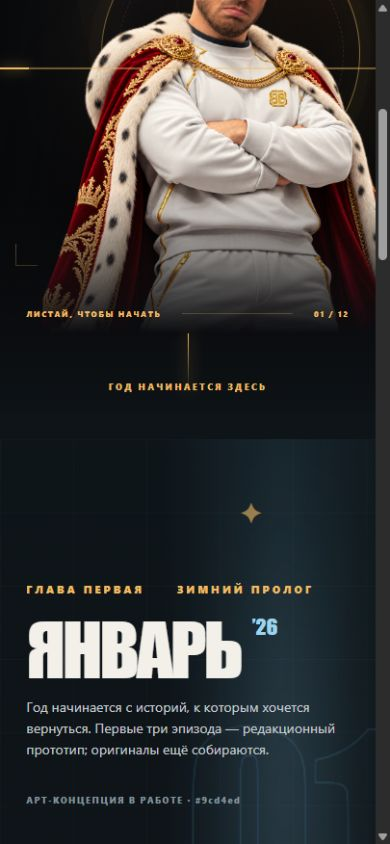
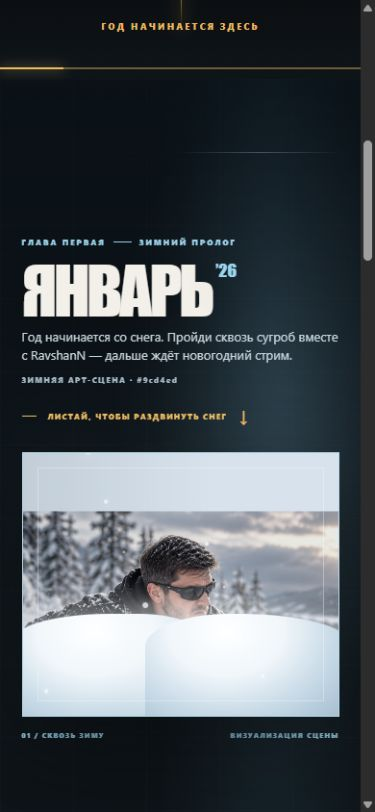
Animate January snow breakout and winter stream scene

diff --git a/src/chapters/january/chapter.module.css b/src/chapters/january/chapter.module.css
@@ -1,21 +1,20 @@
 .chapter { position: relative; isolation: isolate; background: radial-gradient(ellipse at 75% 6%,rgba(72,121,145,.19),transparent 30%), linear-gradient(180deg,#0e1519 0%,#0d1116 38%,#0b0c0f 100%); }
 .chapter::before { content: ''; position: absolute; z-index: -1; inset: 0; opacity: .18; background-image: linear-gradient(rgba(156,212,237,.15) 1px,transparent 1px),linear-gradient(90deg,rgba(156,212,237,.15) 1px,transparent 1px); background-size: 76px 76px; mask-image: linear-gradient(black,transparent 70%); }
 .winterLight { position: absolute; top: 0; right: 3%; width: 42%; height: 750px; border-radius: 50%; background: radial-gradient(ellipse,rgba(156,212,237,.15),transparent 70%); filter: blur(30px); pointer-events: none; }
-.intro { position: relative; min-height: 660px; padding: 130px 10% 90px 14%; display: flex; align-items: center; overflow: hidden; }
-.intro::before { content: '✦'; position: absolute; top: 55px; right: 30%; color: rgba(237,187,98,.6); font: 30px Georgia,serif; }
-.introText { position: relative; z-index: 1; max-width: 760px; }
-.verticalMark { position: absolute; left: 8%; top: 50%; writing-mode: vertical-rl; color: var(--ice); font: 700 11px var(--font-body); letter-spacing: .3em; }
-.intro .eyebrow { color: var(--ice); }
-.introText h2 { margin: 22px 0 10px; font: 400 clamp(100px,13vw,200px)/.9 var(--font-display); letter-spacing: -.04em; }
-.introText h2 span { display: inline-block; margin-left: 12px; color: var(--ice); font-size: .29em; vertical-align: top; letter-spacing: 0; }
-.introText p { max-width: 520px; color: #c6cdd0; font-size: 17px; line-height: 1.6; }
-.concept { display: inline-block; margin-top: 20px; color: #81939b; font-size: 9px; font-weight: 800; letter-spacing: .16em; }
-.bigOne { position: absolute; right: -2%; bottom: -20%; color: transparent; -webkit-text-stroke: 1px rgba(156,212,237,.12); font: 520px/.8 var(--font-display); }
 .scene { position: relative; min-height: 780px; padding: 50px 10% 120px 14%; scroll-margin-top: 20px; border-top: 1px solid rgba(156,212,237,.13); }
+.cinema { isolation: isolate; background: radial-gradient(ellipse at 33% 35%,rgba(116,182,217,.16),transparent 55%),linear-gradient(180deg,rgba(20,37,50,.45),rgba(8,14,21,.12)); }
+.cinema::before { content: ''; position: absolute; z-index: -1; inset: 0; opacity: .32; pointer-events: none; background-image: radial-gradient(circle at 20% 30%,#d4eaf5 0 1px,transparent 2px),radial-gradient(circle at 70% 60%,#d4eaf5 0 1px,transparent 2px); background-size: 131px 139px,203px 177px; }
 .sceneTop { display: flex; justify-content: space-between; color: var(--ice); font-size: 10px; font-weight: 900; letter-spacing: .25em; }
 .cinemaLayout { display: grid; grid-template-columns: minmax(0,1.45fr) minmax(280px,.7fr); gap: clamp(35px,5vw,100px); align-items: center; margin-top: 65px; }
 .cinemaFrame, .splitFrame { position: relative; aspect-ratio: 16/9; border: 1px solid rgba(237,187,98,.28); box-shadow: 20px 25px 80px rgba(0,0,0,.5),0 0 50px rgba(156,212,237,.05); }
+.cinemaFrame { overflow: hidden; border-color: rgba(156,212,237,.64); box-shadow: 20px 25px 80px rgba(0,0,0,.5),0 0 75px rgba(156,212,237,.16); }
 .cinemaFrame::before { content: ''; position: absolute; z-index: 1; inset: -10px 10px 10px -10px; border-left: 1px solid rgba(156,212,237,.32); border-top: 1px solid rgba(156,212,237,.32); pointer-events: none; }
+.cinemaFrame::after { content: ''; position: absolute; z-index: 1; top: 0; left: 0; right: 0; height: 18%; background: linear-gradient(rgba(232,247,255,.2),transparent); pointer-events: none; }
+.cinemaFrame :global(.media-empty) { background: radial-gradient(ellipse at 56% 29%,rgba(178,218,240,.24),transparent 39%),radial-gradient(ellipse at 50% 110%,rgba(242,250,255,.26),transparent 51%),repeating-linear-gradient(105deg,transparent 0 45px,rgba(206,235,249,.04) 46px 47px),#101f2a; }
+.cinemaFrame :global(.media-empty-title) { color: rgba(225,243,252,.43); }
+.streamPosterTop,.streamPosterBottom { position: absolute; z-index: 2; left: 32px; right: 32px; display: flex; justify-content: space-between; gap: 20px; pointer-events: none; color: #e4f4fc; font-size: 9px; font-weight: 900; letter-spacing: .2em; text-shadow: 0 1px 9px #071520; }
+.streamPosterTop { top: 24px; } .streamPosterBottom { bottom: 25px; color: #acd5e8; }
+.streamPosterTop span { color: #afd7eb; }
 .sceneCopy { align-self: center; }
 .tag { display: inline-block; color: var(--gold); font-size: 10px; font-weight: 800; letter-spacing: .22em; }
 .scene h3 { margin: 20px 0; font: 400 clamp(55px,5.8vw,96px)/.95 var(--font-display); letter-spacing: -.02em; }
@@ -55,5 +54,5 @@
 :global(.media-play span) { font-size: 48px; } :global(.media-play strong) { font-size: 12px; letter-spacing: .2em; }
 :global(.media-stop), :global(.media-original) { position: absolute; z-index: 2; bottom: 10px; padding: 8px 10px; border: 1px solid var(--gold); background: #111; color: var(--gold); font-size: 10px; text-decoration: none; }
 :global(.media-stop) { left: 10px; } :global(.media-original) { right: 10px; }
-@media (max-width: 1100px) { .intro,.scene { padding-left: 12%; } .cinemaLayout { grid-template-columns: 1fr; } .cinemaFrame { max-width: 820px; } .sceneCopy { max-width: 650px; } .socialLayout { gap: 4%; grid-template-columns: 1fr 310px; } .splitFrame { width: 85%; } }
-@media (max-width: 700px) { .intro { min-height: 500px; padding: 90px 7% 60px; } .verticalMark { display: none; } .introText h2 { font-size: clamp(75px,17vw,130px); } .introText p { font-size: 14px; } .bigOne { right: -8%; bottom: 0; font-size: 250px; } .scene { padding: 35px 7% 80px; min-height: auto; } .sceneTop { font-size: 9px; } .cinemaLayout { margin-top: 45px; gap: 42px; } .scene h3 { font-size: clamp(52px,13vw,90px); } .scene p { font-size: 14px; } .source { font-size: 9px; } .socialLayout { display: flex; flex-direction: column; align-items: stretch; gap: 35px; min-height: 0; } .socialCopy { padding: 100px 0 0; } .socialCopy h3 { font-size: clamp(70px,18vw,110px); } .quoteMark { top: -25px; } .phoneShell { width: min(75%,320px); margin: 0 auto 40px; } .splitLayout { grid-template-columns: 1fr; padding-top: 45px; gap: 30px; } .splitNumber { font-size: 160px; } .splitFrame { grid-column: auto; width: 100%; margin: 0; } .end { padding: 90px 20px; } :global(.media-empty-label), :global(.media-empty-foot) { font-size: 7px; } }
+@media (max-width: 1100px) { .scene { padding-left: 12%; } .cinemaLayout { grid-template-columns: 1fr; } .cinemaFrame { max-width: 820px; } .sceneCopy { max-width: 650px; } .socialLayout { gap: 4%; grid-template-columns: 1fr 310px; } .splitFrame { width: 85%; } }
+@media (max-width: 700px) { .scene { padding: 35px 7% 80px; min-height: auto; } .sceneTop { font-size: 9px; } .cinemaLayout { margin-top: 45px; gap: 42px; } .scene h3 { font-size: clamp(52px,13vw,90px); } .scene p { font-size: 14px; } .source { font-size: 9px; } .socialLayout { display: flex; flex-direction: column; align-items: stretch; gap: 35px; min-height: 0; } .socialCopy { padding: 100px 0 0; } .socialCopy h3 { font-size: clamp(70px,18vw,110px); } .quoteMark { top: -25px; } .phoneShell { width: min(75%,320px); margin: 0 auto 40px; } .splitLayout { grid-template-columns: 1fr; padding-top: 45px; gap: 30px; } .splitNumber { font-size: 160px; } .splitFrame { grid-column: auto; width: 100%; margin: 0; } .end { padding: 90px 20px; } :global(.media-empty-label), :global(.media-empty-foot) { font-size: 7px; } .streamPosterTop,.streamPosterBottom { left: 14px; right: 14px; font-size: 6px; letter-spacing: .1em; } .streamPosterTop { top: 12px; } .streamPosterBottom { bottom: 12px; } }

diff --git a/src/chapters/january/snowBreakout.module.css b/src/chapters/january/snowBreakout.module.css
@@ -1,0 +1,43 @@
+.intro { --portrait-rise: 70px; --bank-left: 0%; --bank-right: 0%; --snow-spray: 0; --fireworks-visible: 0; --intro-progress: 0%; position: relative; height: 185svh; }
+.stage { position: sticky; top: 0; display: grid; grid-template-columns: minmax(0, .9fr) minmax(0, 1.1fr); align-items: center; gap: 2vw; width: 100%; height: 100svh; min-height: 620px; padding: 95px 6% 65px 14%; overflow: hidden; background: radial-gradient(ellipse at 80% 38%,rgba(156,212,237,.15),transparent 43%); }
+.stage::before { content: ''; position: absolute; inset: 0; pointer-events: none; background: linear-gradient(90deg,rgba(7,14,21,.9),transparent 44%),repeating-linear-gradient(90deg,transparent 0 79px,rgba(156,212,237,.035) 80px); }
+.stage::after { content: ''; position: absolute; top: 9%; left: 50%; right: 6%; height: 1px; background: linear-gradient(90deg,transparent,rgba(156,212,237,.3),transparent); }
+.verticalMark { position: absolute; left: 8%; top: 47%; writing-mode: vertical-rl; color: var(--ice); font: 700 11px var(--font-body); letter-spacing: .3em; }
+.introText { position: relative; z-index: 3; width: 100%; align-self: center; padding-bottom: 30px; }
+.eyebrow { display: flex; align-items: center; gap: 16px; color: var(--ice); font-size: 11px; font-weight: 800; letter-spacing: .25em; white-space: nowrap; }
+.eyebrow i { display: block; width: 35px; height: 1px; background: var(--ice); }
+.introText h2 { margin: 26px 0 18px; font: 400 clamp(100px,10.5vw,185px)/.86 var(--font-display); letter-spacing: -.05em; white-space: nowrap; text-shadow: 0 8px 45px rgba(0,0,0,.35); }
+.introText h2 span { display: inline-block; margin-left: 9px; color: var(--ice); font-size: .27em; vertical-align: top; letter-spacing: 0; }
+.introText p { max-width: 480px; color: #cad7df; font-size: clamp(16px,1.15vw,20px); line-height: 1.58; }
+.concept { display: inline-block; margin-top: 16px; color: #a2b6c1; font-size: 9px; font-weight: 800; letter-spacing: .17em; }
+.scrollCue { display: flex; align-items: center; gap: 12px; margin-top: 65px; color: var(--gold); font-size: 10px; font-weight: 800; letter-spacing: .15em; }
+.scrollCue > span:last-child { font-size: 23px; font-weight: 400; }
+.scrollCueLine { width: 30px; height: 1px; background: var(--gold); }
+.art { position: relative; z-index: 2; width: 100%; max-width: 850px; justify-self: end; }
+.frame { position: relative; width: 100%; aspect-ratio: 1.55; overflow: hidden; border: 1px solid rgba(156,212,237,.52); background: #d7e2ec; box-shadow: 0 30px 100px rgba(0,0,0,.6),0 0 80px rgba(156,212,237,.08); }
+.frame::before { content: ''; position: absolute; z-index: 7; inset: 15px; border: 1px solid rgba(245,251,255,.34); pointer-events: none; }
+.frame img { display: block; width: 100%; height: 100%; object-fit: cover; object-position: 44% center; transform: translateY(var(--portrait-rise)) scale(1.07); filter: contrast(1.05) saturate(.76) brightness(.91); will-change: transform; }
+.iceVeil { position: absolute; inset: 0; background: linear-gradient(0deg,rgba(215,235,246,.2),transparent 50%),linear-gradient(90deg,rgba(8,21,33,.1),transparent 60%); pointer-events: none; }
+.snowbank { position: absolute; z-index: 3; bottom: -3%; width: 64%; height: 48%; background: radial-gradient(ellipse at 40% 16%,#fff 0,#f0f6fa 34%,#c5d8e5 65%,#9db7cb 100%); filter: drop-shadow(0 -11px 18px rgba(255,255,255,.5)); will-change: transform; }
+.snowbankLeft { left: -3%; border-radius: 48% 38% 0 0 / 24% 31% 0 0; transform: translateX(var(--bank-left)); }
+.snowbankRight { right: -3%; border-radius: 42% 54% 0 0 / 30% 25% 0 0; transform: translateX(var(--bank-right)); }
+.snowSpray { position: absolute; z-index: 4; inset: 28% 7% 10%; opacity: var(--snow-spray); pointer-events: none; background: radial-gradient(circle at 8% 80%,#fff 0 3px,transparent 4px),radial-gradient(circle at 21% 56%,#fff 0 2px,transparent 3px),radial-gradient(circle at 36% 23%,#edf8ff 0 4px,transparent 5px),radial-gradient(circle at 67% 29%,#fff 0 3px,transparent 4px),radial-gradient(circle at 81% 54%,#fff 0 2px,transparent 3px),radial-gradient(circle at 94% 77%,#edf8ff 0 4px,transparent 5px); transform: scale(1.14); }
+.snowfall { position: absolute; z-index: 5; inset: -15% 0 0; overflow: hidden; pointer-events: none; }
+.snowfall span { position: absolute; top: -10%; display: block; border-radius: 50%; background: #f6fbff; opacity: .78; box-shadow: 0 0 8px rgba(255,255,255,.7); animation: snowfall linear infinite; }
+@keyframes snowfall { from { transform: translate3d(0,-20px,0); } to { transform: translate3d(42px,620px,0); } }
+.firework { position: absolute; z-index: 2; width: 150px; height: 150px; opacity: var(--fireworks-visible); color: #f5d99d; filter: drop-shadow(0 0 8px currentColor); pointer-events: none; }
+.firework svg { width: 100%; height: 100%; overflow: visible; animation: fireworkBurst 3.9s ease-out infinite; }
+.firework line { stroke: currentColor; stroke-width: 2; stroke-linecap: round; }
+.firework circle { fill: none; stroke: currentColor; stroke-width: 2; }
+.fireworkOne { top: 2%; right: 8%; }
+.fireworkTwo { top: 5%; left: 6%; width: 100px; height: 100px; color: var(--ice); }
+.fireworkTwo svg { animation-delay: 1.8s; }
+@keyframes fireworkBurst { 0%,15% { transform: scale(.15) rotate(-18deg); opacity: 0; } 28% { opacity: .9; } 58%,100% { transform: scale(1.28) rotate(10deg); opacity: 0; } }
+.artCaption { display: flex; justify-content: space-between; gap: 20px; margin-top: 14px; color: var(--ice); font-size: 9px; font-weight: 900; letter-spacing: .18em; }
+.progressTrack { position: absolute; z-index: 3; bottom: 44px; left: 14%; right: 6%; height: 1px; background: rgba(237,187,98,.28); }
+.progressTrack span { display: block; width: var(--intro-progress); height: 2px; background: var(--gold); box-shadow: 0 0 12px var(--gold); }
+.nextCue { position: absolute; z-index: 3; right: 6%; bottom: 57px; display: flex; align-items: center; gap: 13px; color: var(--gold); font-size: 10px; font-weight: 900; letter-spacing: .16em; }
+.nextCue span { font-size: 22px; font-weight: 400; }
+@media (max-width: 1100px) { .stage { padding-left: 11%; } .introText h2 { font-size: clamp(82px,10vw,140px); } .art { max-width: 690px; } }
+@media (max-width: 700px) { .intro { height: 160svh; } .stage { display: flex; flex-direction: column; justify-content: center; align-items: stretch; gap: 22px; min-height: 0; padding: 62px 6% 55px; } .stage::before { background: linear-gradient(180deg,rgba(7,14,21,.6),transparent 70%); } .verticalMark { display: none; } .introText { align-self: auto; padding: 0; } .eyebrow { gap: 8px; font-size: 8px; } .eyebrow i { width: 19px; } .introText h2 { margin: 16px 0 10px; font-size: clamp(68px,17vw,110px); } .introText h2 span { margin-left: 4px; } .introText p { max-width: 330px; margin: 0; font-size: 13px; line-height: 1.46; } .concept { margin-top: 10px; font-size: 8px; } .scrollCue { margin-top: 15px; font-size: 8px; } .scrollCueLine { width: 15px; } .art { width: 100%; max-width: none; } .frame { aspect-ratio: 1.2; } .frame img { object-position: 42% center; } .snowbank { height: 42%; } .firework { width: 85px; height: 85px; } .fireworkTwo { width: 65px; height: 65px; } .artCaption { font-size: 7px; } .progressTrack { left: 6%; right: 6%; bottom: 20px; } .nextCue { display: none; } }
+@media (prefers-reduced-motion: reduce) { .frame img,.snowbank { will-change: auto; } .snowfall span,.firework svg { animation: none; } .snowfall span { opacity: .15; } }

diff --git a/src/chapters/january/SnowBreakout.tsx b/src/chapters/january/SnowBreakout.tsx
@@ -1,0 +1,87 @@
+import { useEffect, useRef } from 'react';
+import { designBrief } from './designBrief';
+import styles from './snowBreakout.module.css';
+
+const snow = Array.from({ length: 24 }, (_, index) => ({
+  left: `${(index * 41 + 13) % 100}%`,
+  delay: `${-((index * 17) % 80) / 10}s`,
+  duration: `${6 + (index % 5)}s`,
+  size: `${2 + (index % 3) * 2}px`,
+}));
+
+function Firework({ className }: { className: string }) {
+  return <div className={`${styles.firework} ${className}`} aria-hidden="true">
+    <svg viewBox="0 0 120 120" focusable="false">
+      {Array.from({ length: 12 }, (_, index) =>
+        <line key={index} x1="60" y1="13" x2="60" y2="32" transform={`rotate(${index * 30} 60 60)`} />,
+      )}
+      <circle cx="60" cy="60" r="7" />
+    </svg>
+  </div>;
+}
+
+export function SnowBreakout() {
+  const introRef = useRef<HTMLDivElement>(null);
+
+  useEffect(() => {
+    const intro = introRef.current;
+    if (!intro) return;
+    const reducedMotion = window.matchMedia('(prefers-reduced-motion: reduce)');
+    let frame = 0;
+
+    const update = () => {
+      frame = 0;
+      const rect = intro.getBoundingClientRect();
+      const travel = Math.max(1, rect.height - window.innerHeight);
+      const progress = reducedMotion.matches ? 1 : Math.max(0, Math.min(1, -rect.top / travel));
+      const eased = progress * progress * (3 - 2 * progress);
+      intro.style.setProperty('--portrait-rise', `${Math.round((1 - eased) * 70)}px`);
+      intro.style.setProperty('--bank-left', `${Math.round(-eased * 110)}%`);
+      intro.style.setProperty('--bank-right', `${Math.round(eased * 110)}%`);
+      intro.style.setProperty('--snow-spray', String(Math.min(1, Math.max(0, (progress - .24) * 2.4))));
+      intro.style.setProperty('--fireworks-visible', String(Math.min(1, Math.max(0, (progress - .5) * 2.6))));
+      intro.style.setProperty('--intro-progress', `${Math.round(progress * 100)}%`);
+    };
+    const schedule = () => { if (!frame) frame = requestAnimationFrame(update); };
+    update();
+    window.addEventListener('scroll', schedule, { passive: true });
+    window.addEventListener('resize', schedule);
+    reducedMotion.addEventListener('change', schedule);
+    return () => {
+      window.removeEventListener('scroll', schedule);
+      window.removeEventListener('resize', schedule);
+      reducedMotion.removeEventListener('change', schedule);
+      if (frame) cancelAnimationFrame(frame);
+    };
+  }, []);
+
+  return <div ref={introRef} className={styles.intro}>
+    <div className={styles.stage}>
+      <div className={styles.verticalMark}>01 / 12</div>
+      <div className={styles.introText}>
+        <span className={styles.eyebrow}>ГЛАВА ПЕРВАЯ <i /> ЗИМНИЙ ПРОЛОГ</span>
+        <h2 id="january-title">ЯНВАРЬ<span>’26</span></h2>
+        <p>Год начинается со снега. Пройди сквозь сугроб вместе с RavshanN — дальше ждёт новогодний стрим.</p>
+        <span className={styles.concept}>ЗИМНЯЯ АРТ-СЦЕНА · {designBrief.accent}</span>
+        <div className={styles.scrollCue}><span className={styles.scrollCueLine} />ЛИСТАЙ, ЧТОБЫ РАЗДВИНУТЬ СНЕГ <span aria-hidden="true">↓</span></div>
+      </div>
+      <div className={styles.art}>
+        <div className={styles.frame}>
+          <img src="/assets/visuals/ravshann-snow.png" alt="Постановочная иллюстрация: RavshanN пробирается сквозь снежный сугроб" />
+          <Firework className={styles.fireworkOne} />
+          <Firework className={styles.fireworkTwo} />
+          <div className={styles.iceVeil} aria-hidden="true" />
+          <div className={`${styles.snowbank} ${styles.snowbankLeft}`} aria-hidden="true" />
+          <div className={`${styles.snowbank} ${styles.snowbankRight}`} aria-hidden="true" />
+          <div className={styles.snowSpray} aria-hidden="true" />
+          <div className={styles.snowfall} aria-hidden="true">
+            {snow.map((flake, index) => <span key={index} style={{ left: flake.left, animationDelay: flake.delay, animationDuration: flake.duration, width: flake.size, height: flake.size }} />)}
+          </div>
+        </div>
+        <div className={styles.artCaption}><span>01 / СКВОЗЬ ЗИМУ</span><span>ВИЗУАЛИЗАЦИЯ СЦЕНЫ</span></div>
+      </div>
+      <div className={styles.progressTrack} aria-hidden="true"><span /></div>
+      <div className={styles.nextCue}>ДАЛЬШЕ / НОВОГОДНИЙ СТРИМ <span>↓</span></div>
+    </div>
+  </div>;
+}

diff --git a/src/chapters/january/January.tsx b/src/chapters/january/January.tsx
@@ -1,29 +1,24 @@
 import { MediaFrame } from '../../components/MediaFrame';
 import { scenes } from '../../lib/contentValidation';
-import { designBrief } from './designBrief';
+import { SnowBreakout } from './SnowBreakout';
 import styles from './chapter.module.css';
 
 export function January() {
   const [opening, tradition, game] = scenes;
   return <section id="january" className={styles.chapter} aria-labelledby="january-title">
     <div className={styles.winterLight} aria-hidden="true" />
-    <div className={styles.intro}>
-      <div className={styles.verticalMark}>01 / 12</div>
-      <div className={styles.introText}>
-        <span className="eyebrow">ГЛАВА ПЕРВАЯ <i /> ЗИМНИЙ ПРОЛОГ</span>
-        <h2 id="january-title">ЯНВАРЬ<span>’26</span></h2>
-        <p>Год начинается с историй, к которым хочется вернуться. Первые три эпизода — редакционный прототип; оригиналы ещё собираются.</p>
-        <span className={styles.concept}>АРТ-КОНЦЕПЦИЯ В РАБОТЕ · {designBrief.accent}</span>
-      </div>
-      <div className={styles.bigOne} aria-hidden="true">01</div>
-    </div>
+    <SnowBreakout />
 
     <article className={`${styles.scene} ${styles.cinema}`} id={opening.id} aria-labelledby={`${opening.id}-title`}>
       <div className={styles.sceneTop}><span>{opening.eyebrow}</span><span>01 — 03</span></div>
       <div className={styles.cinemaLayout}>
-        <div className={styles.cinemaFrame}><MediaFrame scene={opening} label={opening.title} /></div>
+        <div className={styles.cinemaFrame}>
+          <div className={styles.streamPosterTop}>НОВОГОДНИЙ СТРИМ <span>ЗАПИСЬ ОЖИДАЕТСЯ</span></div>
+          <MediaFrame scene={opening} label={opening.title} />
+          <div className={styles.streamPosterBottom}>ЗИМА / ЯНВАРЬ 2026 <span>16:9</span></div>
+        </div>
         <div className={styles.sceneCopy}>
-          <span className={styles.tag}>АРХИВ / ЯНВАРЬ</span>
+          <span className={styles.tag}>СЛЕДОМ ЗА СНЕГОМ / ВИДЕО</span>
           <h3 id={`${opening.id}-title`}>{opening.title}</h3>
           <p>{opening.description}</p>
           <div className={styles.source}>ИЗ ИСХОДНОГО ПЛАНА: «{opening.sourceTitle}»</div>

diff --git a/src/chapters/january/assetManifest.ts b/src/chapters/january/assetManifest.ts
@@ -4,7 +4,7 @@ export type Asset = {
   eventId: string | null;
   role: string;
   src: string | null;
-  kind: 'real' | 'generated' | 'edited' | 'placeholder';
+  kind: 'real' | 'generated' | 'edited' | 'supplied-artwork' | 'placeholder';
   rightsStatus: 'provided-by-user' | 'missing';
   approved: boolean;
   alt: string;
@@ -18,10 +18,9 @@ export const assetManifest: Asset[] = [
     approved: false, alt: 'RavshanN в короне и королевской мантии',
   },
   {
-    assetId: 'january-atmosphere', chapterId: '2026-01', eventId: null, role: 'decorative backdrop',
-    src: null, kind: 'placeholder', rightsStatus: 'missing', approved: false,
-    alt: 'Декоративная зимняя атмосфера',
-    prompt: 'Abstract cinematic winter stage, near-black glass, restrained gold light thread, icy blue glints, subtle frost, no people, no event imagery, no typography, wide 16:9 and tall 9:16 crops.',
+    assetId: 'january-snow-breakout', chapterId: '2026-01', eventId: null, role: 'scroll scene artwork',
+    src: '/assets/visuals/ravshann-snow.png', kind: 'supplied-artwork', rightsStatus: 'provided-by-user',
+    approved: false, alt: 'Постановочная иллюстрация: RavshanN пробирается через сугроб',
   },
   ...['2026-01-01', '2026-01-02', '2026-01-03'].map((eventId) => ({
     assetId: `${eventId}-media`, chapterId: '2026-01', eventId, role: 'documentary event media',

diff --git a/src/chapters/january/designBrief.ts b/src/chapters/january/designBrief.ts
@@ -1,8 +1,8 @@
 export const designBrief = {
   workingTitle: 'Зимний пролог',
-  mood: 'Стужа, новогодние огни, тёмное стекло, холодные отблески.',
+  mood: 'Холодная зимняя палитра: снежная глубина, тёмное стекло, ледяные отблески, мягкий снег и редкие праздничные вспышки.',
   accent: '#9cd4ed',
   status: 'working-concept',
   approved: false,
-  note: 'Художественное направление января пока ожидает утверждения.',
+  note: 'Рабочее направление для января; февраль сохраняет зимнюю палитру как пожелание заказчика, но здесь пока не разрабатывается.',
 } as const;

diff --git a/src/chapters/january/chapter.motion.ts b/src/chapters/january/chapter.motion.ts
@@ -1,6 +1,7 @@
 export const januaryMotion = {
-  entry: 'gold-thread-to-frost',
+  entry: 'scroll-driven-snow-breakout',
   reveal: 'soft-rise',
-  durationMs: 650,
-  reduceMotion: 'instant',
+  snow: 'continuous-light-fall',
+  fireworks: 'restrained-icy-bursts',
+  reduceMotion: 'fully-revealed-static-scene',
 } as const;

diff --git a/README.md b/README.md
@@ -21,7 +21,9 @@ pnpm build
 
 - Hero с предоставленным вырезанным портретом RavshanN, CTA «ПРОЙТИ ГОД» и переходом к январю.
 - Золотая линия прокрутки, устойчивые якоря сцен, навигация вперёд и назад.
-- Три январские сцены в форматах 16:9, 9:16 и split. Их названия взяты из исходного реестра и остаются **непроверенными редакционными пунктами**.
+- У заголовка января — сцена с предоставленной зимней иллюстрацией: при прокрутке герой поднимается, снежные слои раздвигаются, падает лёгкий снег и появляются праздничные вспышки. При `prefers-reduced-motion` сцена сразу раскрыта и эффекты неподвижны.
+- После зимней сцены расположен видеоблок новогоднего стрима. Пока запись не готова, на его месте явно обозначенный зимний `PLACEHOLDER`.
+- Три январские сцены в форматах 16:9, 9:16 и split. Исходные названия сохранены в реестре, экранные заголовки — редакционные; сами события остаются **непроверенными пунктами**.
 - `PLACEHOLDER` вместо отсутствующих фото и видео. Компонент медиа поддерживает YouTube по клику, без автозвука, со ссылкой на оригинал.
 - Режим показа: `←`/`→` для точек, `PgUp`/`PgDn` для пролога/января, `Esc` для выхода. Клавиши работают только во включённом режиме.
 - Адаптивная верстка, семантические заголовки, видимый фокус и reduced motion.
@@ -37,13 +39,13 @@ pnpm build
 | Ассет | Статус | Что требуется |
 | --- | --- | --- |
 | Hero-портрет | Получен от заказчика, утверждение применения ожидается | Подтвердить права на использование и финальную ретушь |
-| Фон января | MISSING | Утвердить арт-направление, затем сделать декоративные кропы 16:9 и 9:16 |
-| Новогодняя ночь | MISSING | Оригинальное видео или фото, источник, права, короткая подпись |
+| Зимняя иллюстрация для перехода | Получена от заказчика; постановочный визуал, не документальный кадр события | Подтвердить финальное использование |
+| Новогодний стрим | MISSING | Оригинальное видео, источник, права, короткая подпись |
 | «Брат и Брат 2» | MISSING | Оригинальный вертикальный материал или фото, источник, права |
 | «Мафия 2+1» | MISSING | Оригинальная запись или кадр, источник, права |
 | Голосование и соцсети | MISSING | Официальные URL после проверки; пока CTA голосования нет |
 
-Промпт для **декоративного фона** хранится в `assetManifest.ts`. Он не предназначен для создания поддельных кадров событий.
+Холодная зимняя палитра также задана как направление для будущего февраля; его дизайн и сцены пока не реализованы.
 
 ## Следующий этап
 
